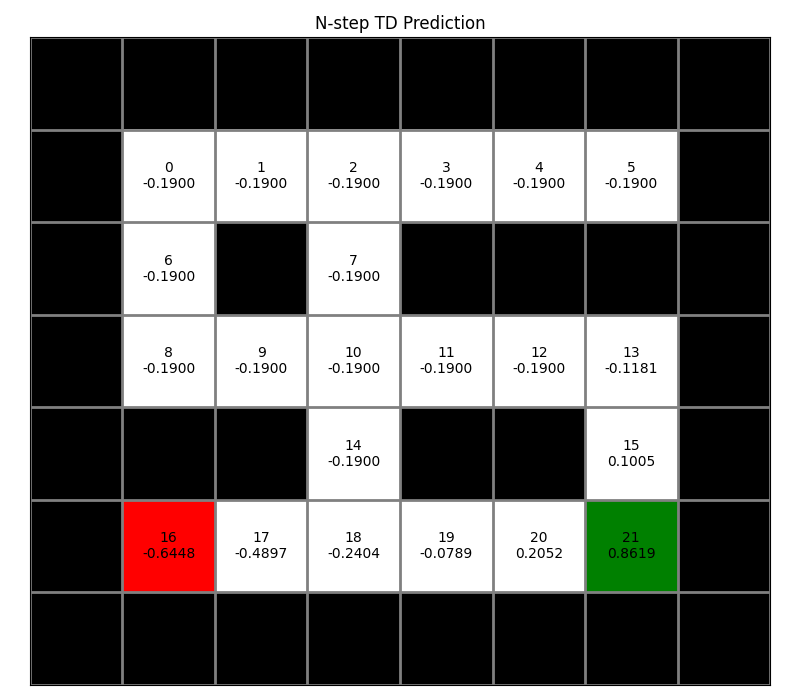
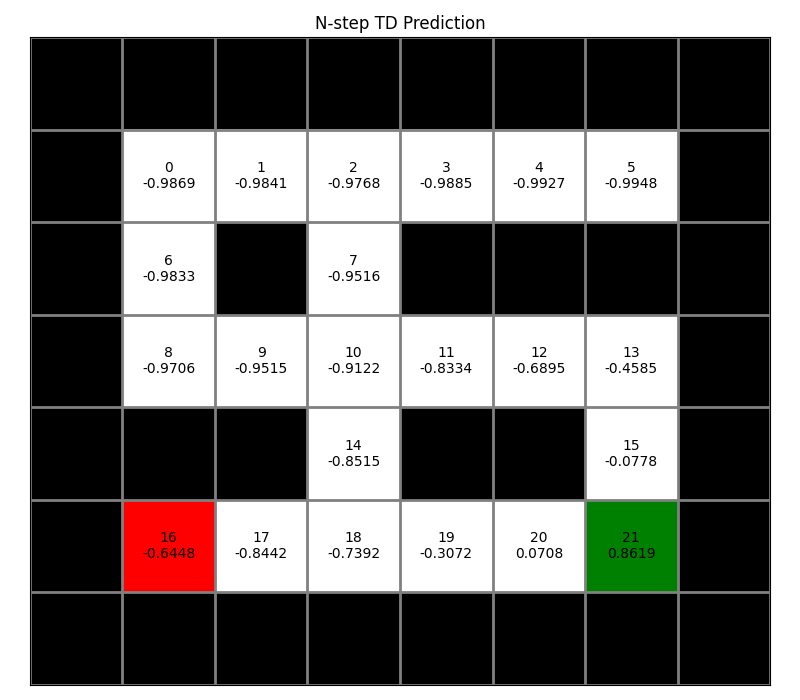
Task 3

diff --git a/Assignment2/algorithms.py b/Assignment2/algorithms.py
@@ -94,10 +94,7 @@ class MonteCarloPrediction(ModelFreePrediction):
                 if t == states_in_episode.index(state):
                     returns[state] += G
                     N_count[state] += 1
-                    self.values[state] = returns[state]/N_count[state]
-
-
-                
+                    self.values[state] = returns[state]/N_count[state]                
                 # if state not in visited_states: 
                     # visited_states.add(state)
 
@@ -158,41 +155,38 @@ class NstepTDPrediction(ModelFreePrediction):
         current_state = self.grid_world.reset()
         while self.episode_counter < self.max_episode:
             episode = []
-            current_state = self.grid_world.reset()
             done = False
             t = 0
+            T = float("inf")
 
             while not done:
-                next_state, reward, done = self.collect_data()
-                episode.append((current_state, reward, next_state))
-                T = len(episode)
-                if done:
-                    T = t+1
+                if t < T:
+                    next_state, reward, done = self.collect_data()
+                    episode.append((current_state, reward, next_state))
+                    
+                    if done:
+                        T = t + 1 # 縮短T的範圍到episode的長度
 
-                tao = t - self.n + 1  # 和 n 步的差距
+                tao = t - self.n + 1  # 退回去 n 個 step 前來更新。因為更新值即為該state往前後算n個的reward
 
                 # 代表此時已經走了 n 步以上了，可以開始累加reward
+                
                 if tao >= 0:
                     G = 0
-                    # Sum of rewards for n steps or until episode end
-                    for i in range(tao+1, min(tao + self.n, T)):
-                        G += self.discount_factor ** (i - tao-1) * episode[i][1]
-                    # Add the estimated value of the future state if within the episode length
-                    if tao + self.n < T: # 還沒走到終點
-                        G += self.discount_factor ** self.n * self.values[episode[tao + self.n][0]]
 
-                    # Update the value of the state at time step tao
-                    state_tao = episode[tao][0]
-                    self.values[state_tao] += self.lr * (G - self.values[state_tao])
+                    for i in range(tao, min(tao + self.n, T)):  # 累加 n 個reward，如果到終點了，加到終點就好
+                        # print(i)
+                        G += (self.discount_factor ** (i - tao)) * episode[i][1]
+                    if tao + self.n < T: # 還沒走到終點，把next state value更新進去，走到終點就不用加上next state value
+                        G += (self.discount_factor ** self.n) * self.values[episode[t][2]]
+                        state_tao = episode[tao][0]
+                        self.values[state_tao] += self.lr * (G - self.values[state_tao])
 
                 current_state = next_state
                 t += 1
 
-                if tao == T - 1:
-                    break
-
-            # # End of episode - update the remaining steps
-            for tao in range(t - self.n + 1, t):
+            # 還有剩下的value 沒有被update到，直接單純利用R來更新，跟Monte Carlo一樣
+            for tao in range(t - self.n, t):
                 G = 0
                 for i in range(tao, t):
                     G += self.discount_factor ** (i - tao) * episode[i][1]

diff --git a/Assignment2/main.py b/Assignment2/main.py
@@ -212,9 +212,9 @@ if __name__ == "__main__":
     seed = 1
     grid_world = init_grid_world("maze.txt",INIT_POS)
     # 2-1
-    run_MC_prediction(grid_world,seed)
+    # run_MC_prediction(grid_world,seed)
     # run_TD_prediction(grid_world,seed)
-    # run_NstepTD_prediction(grid_world,seed)
+    run_NstepTD_prediction(grid_world,seed)
 
     # 2-2
     # grid_world = init_grid_world("maze.txt")
